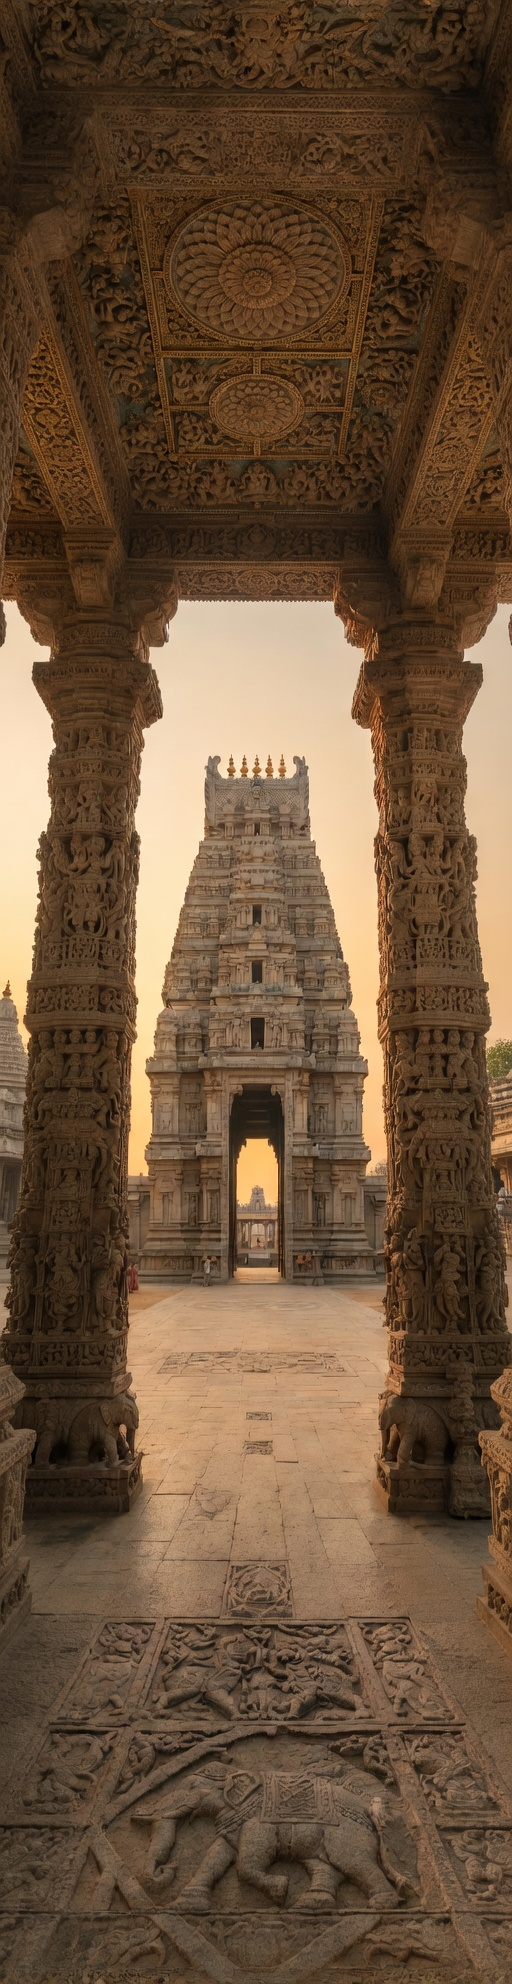
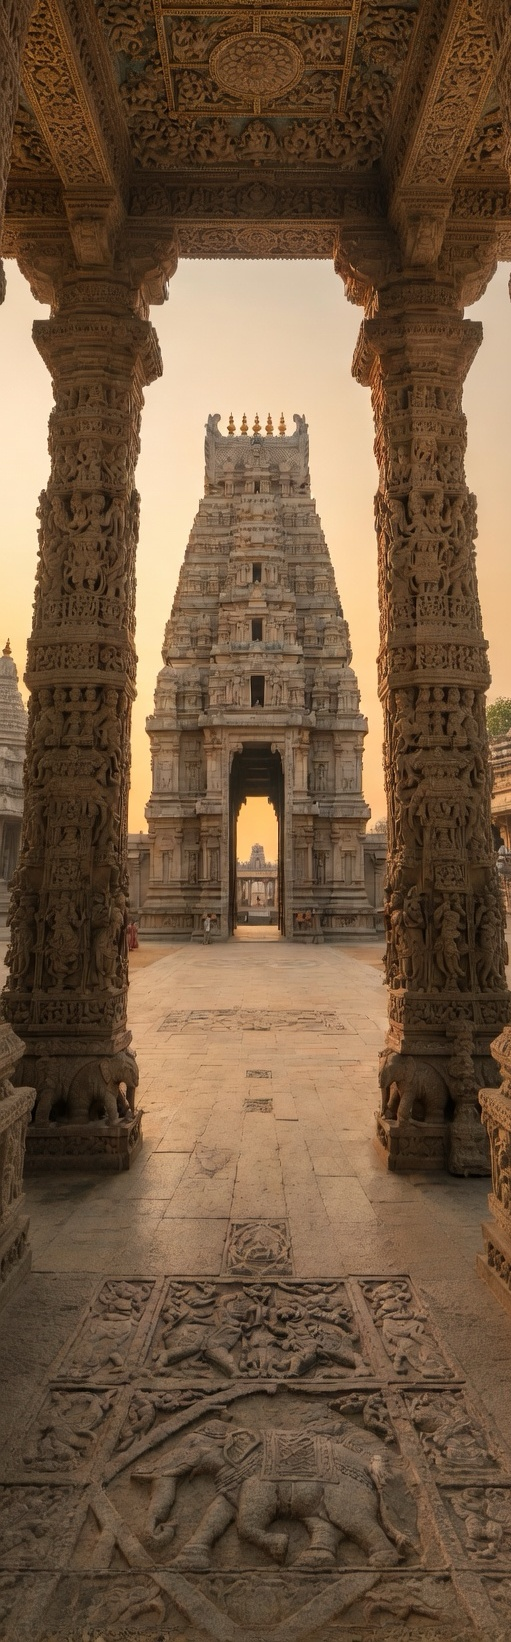
Update hero image and reveal photo sooner

diff --git a/index.html b/index.html
@@ -15,12 +15,12 @@
   <link rel="stylesheet" href="css/variables.css?v=29">
   <link rel="stylesheet" href="css/base.css?v=30">
   <link rel="stylesheet" href="css/nav.css?v=29">
-  <link rel="stylesheet" href="css/hero.css?v=36">
+  <link rel="stylesheet" href="css/hero.css?v=37">
   <link rel="stylesheet" href="css/events.css?v=29">
   <link rel="stylesheet" href="css/rsvp.css?v=29">
   <link rel="stylesheet" href="css/travel.css?v=29">
   <link rel="stylesheet" href="css/faq.css?v=29">
-  <link rel="stylesheet" href="css/about.css?v=34">
+  <link rel="stylesheet" href="css/about.css?v=35">
   <link rel="stylesheet" href="css/traditions.css?v=29">
   <link rel="stylesheet" href="css/dresscode.css?v=29">
   <link rel="stylesheet" href="css/gifts.css?v=29">

diff --git a/css/hero.css b/css/hero.css
@@ -249,7 +249,7 @@
 
   .hero {
     align-items: center;
-    min-height: 100svh;
+    min-height: 84svh;
   }
 
   .hero::before {
@@ -281,7 +281,7 @@
 
   .hero__content {
     max-width: 360px;
-    min-height: calc(100svh - var(--nav-height));
+    min-height: calc(84svh - var(--nav-height));
     justify-content: flex-start;
     padding: calc(var(--nav-height) + 2.9rem) 0.9rem 1.35rem;
   }
@@ -358,7 +358,7 @@
 
   .hero__bg {
     background-image: url('../assets/images/hero-temple-mobile-landing.jpg');
-    background-position: center 18%;
+    background-position: center 16%;
     background-size: cover;
     background-repeat: no-repeat;
     transform-origin: center top;

diff --git a/css/about.css b/css/about.css
@@ -7,12 +7,13 @@
 
 @media (max-width: 540px) {
   .about-section {
-    padding-top: 0.9rem;
+    padding-top: 0.25rem;
     padding-bottom: 0.3rem;
+    margin-top: -0.2rem;
   }
 
   .about-section__inner {
-    padding-top: 0.25rem;
+    padding-top: 0;
     padding-bottom: 0.6rem;
   }
 
